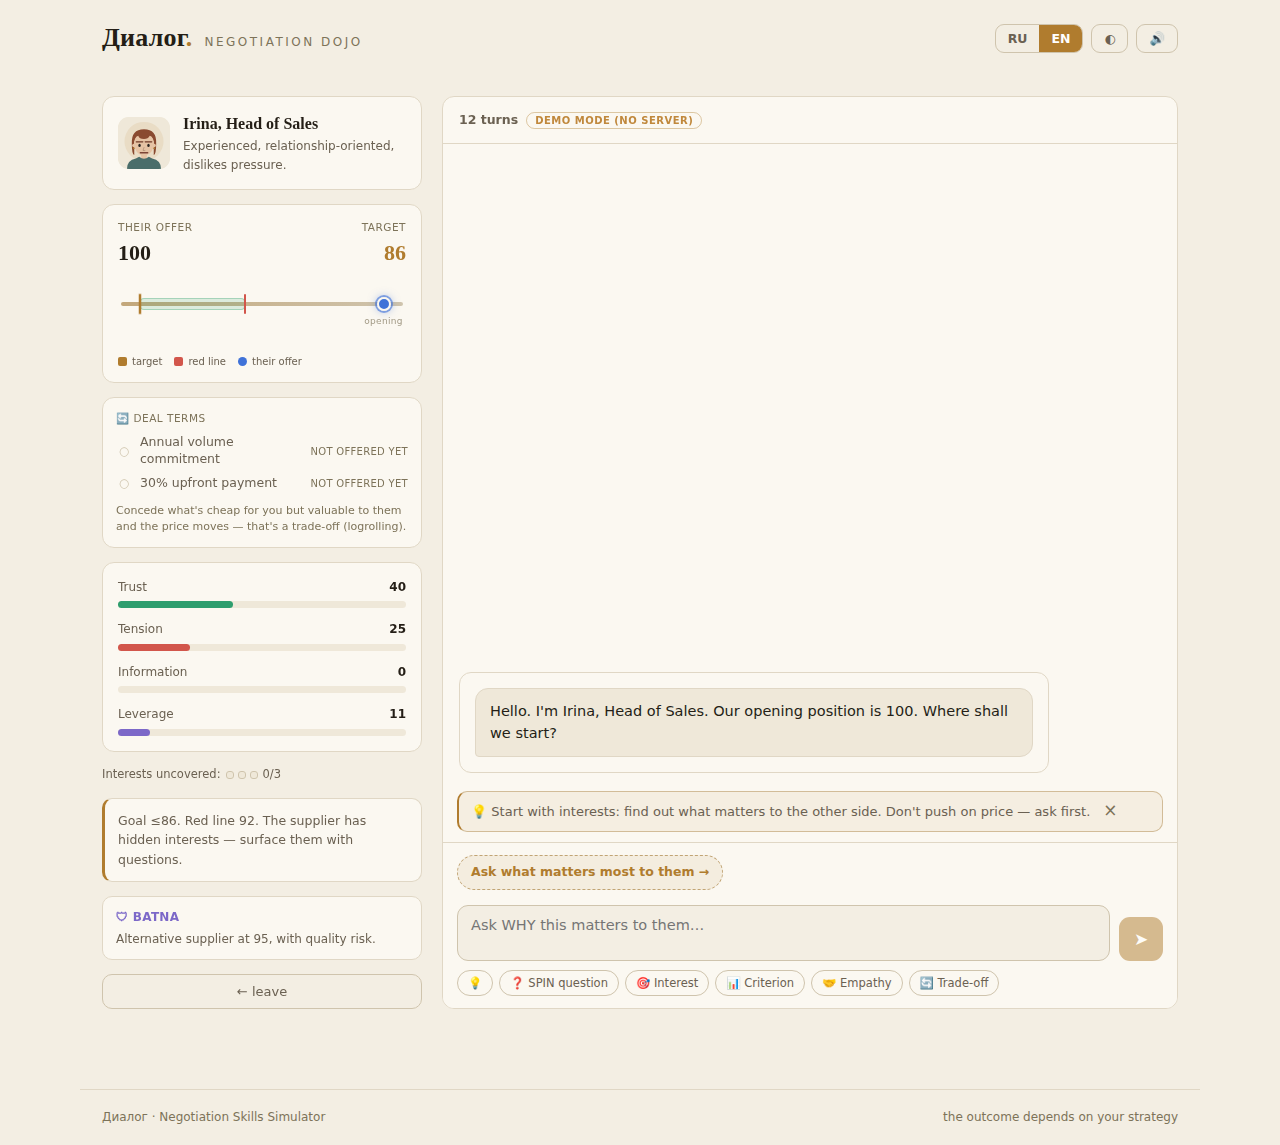
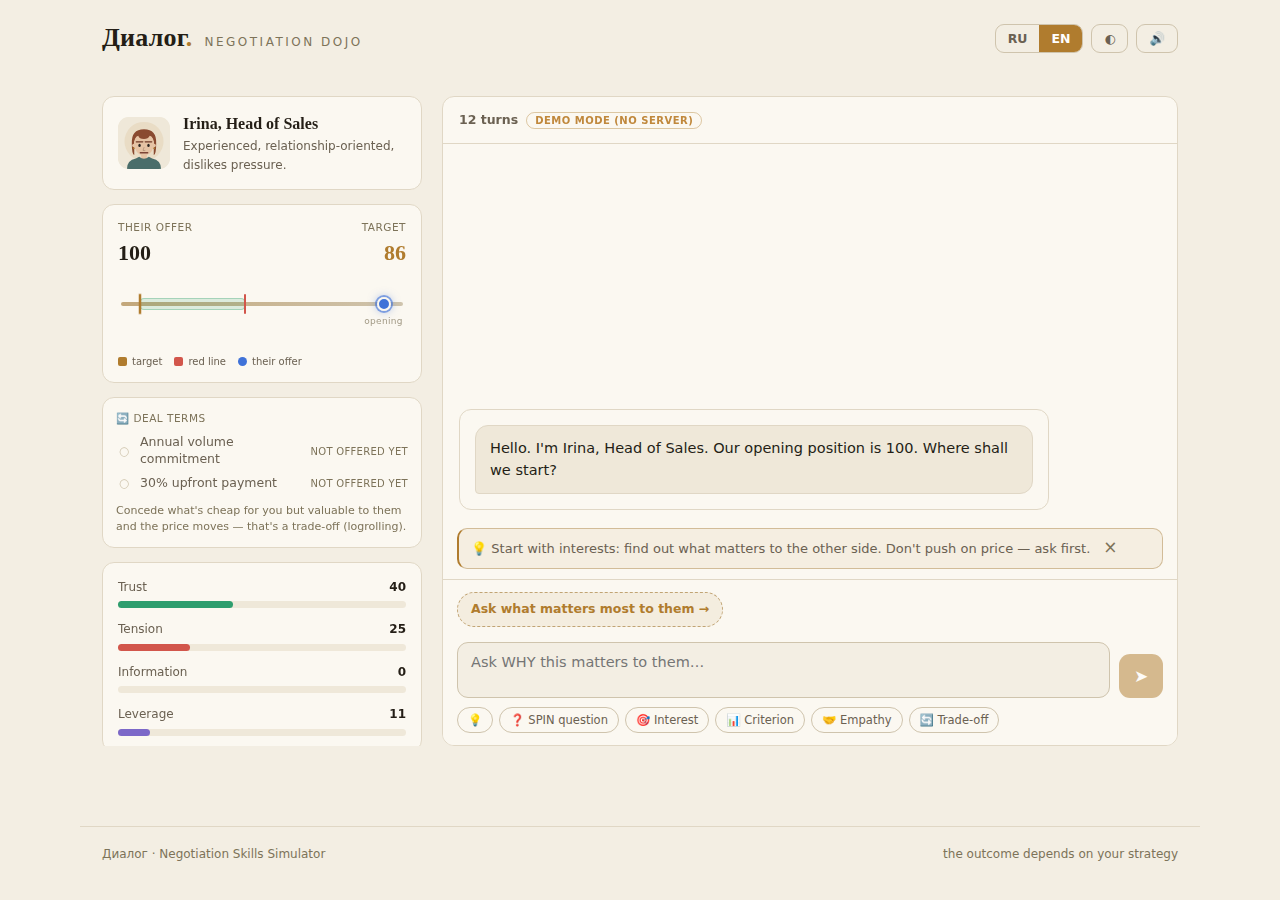
Экран игры остаётся кокпитом до конца партии, а не только первые три хода
`.table { min-height }` — это ПОЛ, а не потолок. Поэтому с ~4-го хода рос не лог,
а сама страница: к финалу документ был 2052px (ru) и 3535px (en) при вьюпорте
1080. То есть счётчики, шкала цены и композер — весь аргумент, что это тренажёр,
а не чат-бот — уезжали с экрана ровно тогда, когда переговоры становятся
интересными, и презентатор на защите скроллит длинную веб-страницу.

Теперь у строки фиксированная высота, у детей `min-height: 0`, а переполнение
возвращено `.log` — единственному, что должно скроллиться. Рельсу дан
собственный скролл (на 1280×800 она выше строки). Замер после правки: 3535 →
1080px, 2052 → 1080px.

На телефоне у той же находки вторая половина: рельса стоит НАД чатом, поэтому
полоса исхода монтировалась глубоко под сгибом — кульминация рисовалась там,
куда никто не смотрит, и 2.2с истекали раньше, чем игрок её находил.
`scrollIntoView` при появлении.

И тип-гейт: `npm test` гоняет тесты через `tsx`, который типы СТИРАЕТ, не
проверяя. То есть ошибка типов проходила мимо и тестов, и pytest — ловил её
только `npm run build`, то есть в худшем случае на деплое. `npm test` теперь
начинается с `tsc --noEmit`.

91 backend / 97 frontend; скриншоты пересняты, 0 ошибок в консоли.

Claude-Session: https://claude.ai/code/session_01KmgpwMAtJDnLStVDJp18cV

diff --git a/frontend/src/styles.css b/frontend/src/styles.css
@@ -234,10 +234,23 @@ h1, h2, h3, .serif { font-family: var(--serif); }
    large empty rectangle under it on any desktop viewport. The chat now fills the
    row. `.side` keeps `align-self: start` so its `position: sticky` still has
    somewhere to travel. */
+/* `align-items: stretch` (the default) is deliberate: the sidebar is the taller
+   column, so with `start` the chat card ended at its minimum and left a large
+   empty rectangle under it on any desktop viewport.
+
+   `height`, NOT `min-height`: a floor let the grid grow with the transcript, so
+   from about turn 4 the PAGE scrolled instead of the log — and the meters, the
+   deal tracker and the composer (the whole argument that this is a simulator and
+   not a chatbot) left the screen exactly when the negotiation got interesting.
+   A fixed row height plus `min-height: 0` on the children hands the overflow back
+   to `.log`, which is the only thing that should scroll. */
 .table { display: grid; grid-template-columns: 320px 1fr; gap: 20px; padding: 20px 0 40px;
-  min-height: calc(100vh - 210px); }
-.side { display: flex; flex-direction: column; gap: 14px; position: sticky; top: 16px;
-  align-self: start; }
+  height: calc(100vh - 190px); min-height: 520px; }
+.table > * { min-height: 0; }
+.side { display: flex; flex-direction: column; gap: 14px; align-self: stretch;
+  /* At 1280×800 the rail is taller than the row; it gets its own scroll rather
+     than pushing the page. Sticky is pointless once the row is bounded. */
+  max-height: 100%; overflow-y: auto; scrollbar-width: thin; }
 
 .opp { display: flex; gap: 13px; align-items: center; background: var(--panel); border: 1px solid var(--line); border-radius: var(--r); padding: 15px; }
 .opp .face { width: 52px; height: 52px; display: grid; place-items: center; background: var(--panel-2); border-radius: 11px; overflow: hidden; flex: 0 0 auto; }
@@ -673,9 +686,11 @@ textarea:focus { outline: none; border-color: var(--brass); }
 
 /* ---------- Tablet: collapse the two-column game to one column ---------- */
 @media (max-width: 860px) {
-  .table { grid-template-columns: 1fr; min-height: 0; }
+  /* Stacked: nothing to fill and nothing to bound — the page scrolls as a page,
+     so every desktop height rule has to be undone, not just softened. */
+  .table { grid-template-columns: 1fr; height: auto; min-height: 0; }
   .chat { height: auto; }
-  .side { position: static; }
+  .side { max-height: none; overflow: visible; }
   .gh { flex-direction: column; text-align: center; }
 }
 

diff --git a/frontend/src/components/Table.tsx b/frontend/src/components/Table.tsx
@@ -50,8 +50,17 @@ export function Table({ t, lang, mode, kind, scenario, state, log, busy, phase, 
   // same suggestion refill the box after the player edited it away.
   const [prefill, setPrefill] = useState<{ text: string; nonce: number } | undefined>(undefined);
   const prefillNonce = useRef(1);
+  // On a phone the rail stacks above the chat, so the closing strip mounts far
+  // below the fold — the climax of the negotiation rendered where nobody was
+  // looking, and the hold expires before they find it. Bring it into view.
+  const outcomeRef = useRef<HTMLDivElement | null>(null);
   const st = state;
   const finished = !!st && st.status !== "active";
+  useEffect(() => {
+    if (!finished) return;
+    outcomeRef.current?.scrollIntoView({ block: "nearest", behavior: "smooth" });
+  }, [finished]);
+
   const iFound = st?.interests_found ?? 0;
   const iTotal = st?.interests_total ?? 0;
   // Exam is an assessment: all live coaching feedback (meters, interests tracker,
@@ -374,7 +383,7 @@ export function Table({ t, lang, mode, kind, scenario, state, log, busy, phase, 
               </div>
             ) : null}
             {finished && onSeeDebrief ? (
-              <div className={`outcome ${st!.status}`} role="status">
+              <div className={`outcome ${st!.status}`} role="status" ref={outcomeRef}>
                 <div className="oc-stamp">
                   <span className="oc-mark" aria-hidden="true">
                     {st!.status === "agreement" ? "🤝" : "🚪"}
